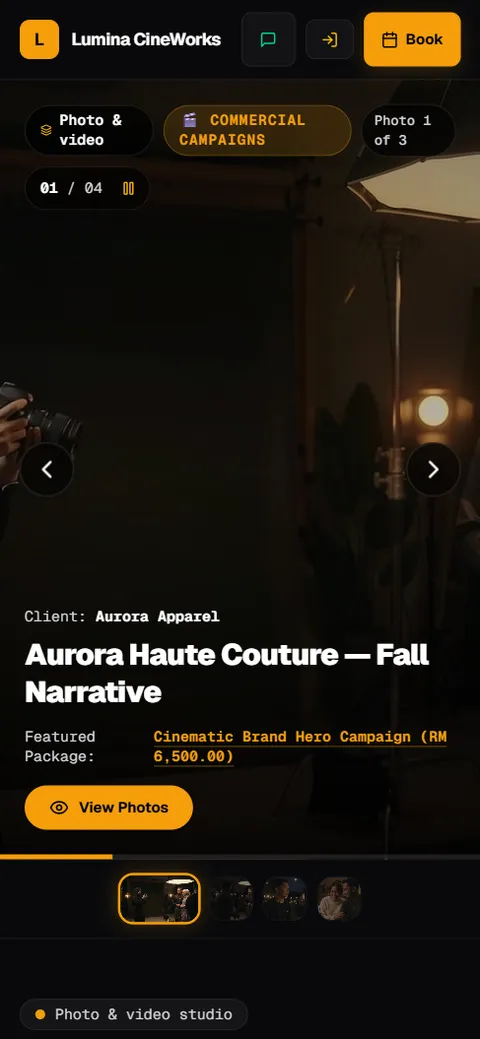
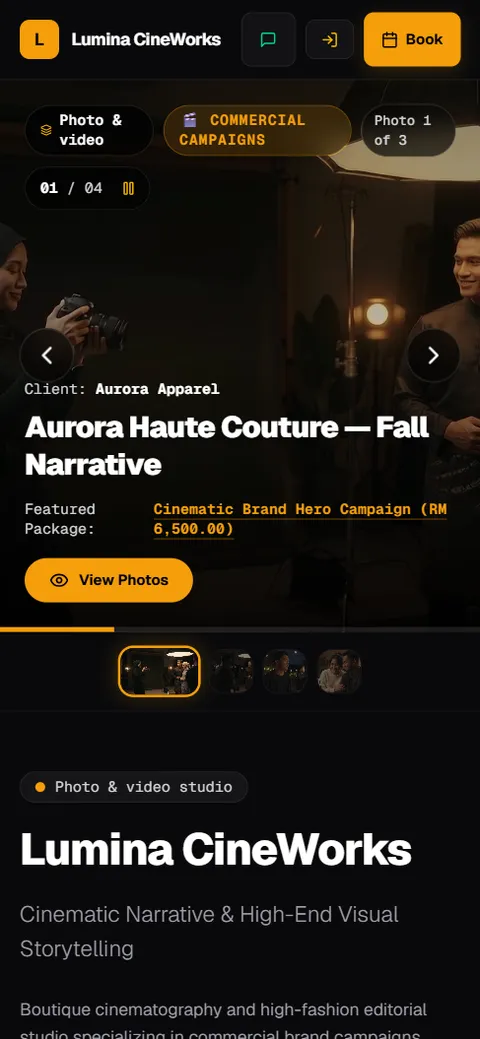
fix(site): a shorter portfolio slider on phones, and a matching phone screenshot

diff --git a/tests/e2e/tier39-landing-page.test.ts b/tests/e2e/tier39-landing-page.test.ts
@@ -356,7 +356,8 @@ export async function runTier39LandingPageTests(harness: TestHarness) {
     harness.assert(!/<main[^>]*max-w/.test(page), "The page's main area doesn't narrow the slider");
     harness.assert(/hasSlider \? "pt-12" : "pt-12 sm:pt-16"/.test(shell), "With no portfolio yet, the intro gets its own room at the top");
     const slider = await fs.readFile(path.join(root, "components/showcase/showcase-big-slider.tsx"), "utf8");
-    harness.assert(!/rounded-3xl|max-w-7xl/.test(slider) && /h-\[calc\(100svh-8rem\)\]/.test(slider), "The slider is edge to edge and fills the first screen under the bar");
+    harness.assert(!/rounded-3xl|max-w-7xl/.test(slider) && /sm:h-\[calc\(100svh-8rem\)\]/.test(slider), "The slider is edge to edge and fills the first screen under the bar on computers");
+    harness.assert(/ h-\[115vw\] /.test(slider), "On phones it is shorter, so less of each photo is cropped away");
     const intro = await fs.readFile(path.join(root, "components/showcase/showcase-intro.tsx"), "utf8");
     harness.assertEqual((intro.match(/<h1[\s>]/g) ?? []).length, 1, "The intro holds the page's one h1");
     harness.assert(!/currency/i.test(intro), "The intro doesn't show a currency");

diff --git a/components/showcase/showcase-big-slider.tsx b/components/showcase/showcase-big-slider.tsx
@@ -196,7 +196,7 @@ export function ShowcaseBigSlider({
         onTouchStart={handleTouchStart}
         onTouchMove={handleTouchMove}
         onTouchEnd={handleTouchEnd}
-        className="group relative w-full h-[calc(100svh-8rem)] min-h-[420px] max-h-[75svh] sm:max-h-[900px] overflow-hidden bg-[#0b0b0e] select-none"
+        className="group relative w-full h-[115vw] min-h-[420px] max-h-[75svh] sm:h-[calc(100svh-8rem)] sm:max-h-[900px] overflow-hidden bg-[#0b0b0e] select-none"
       >
         {/* Horizontal Sliding Track: Translates -100% per slide */}
         <div
